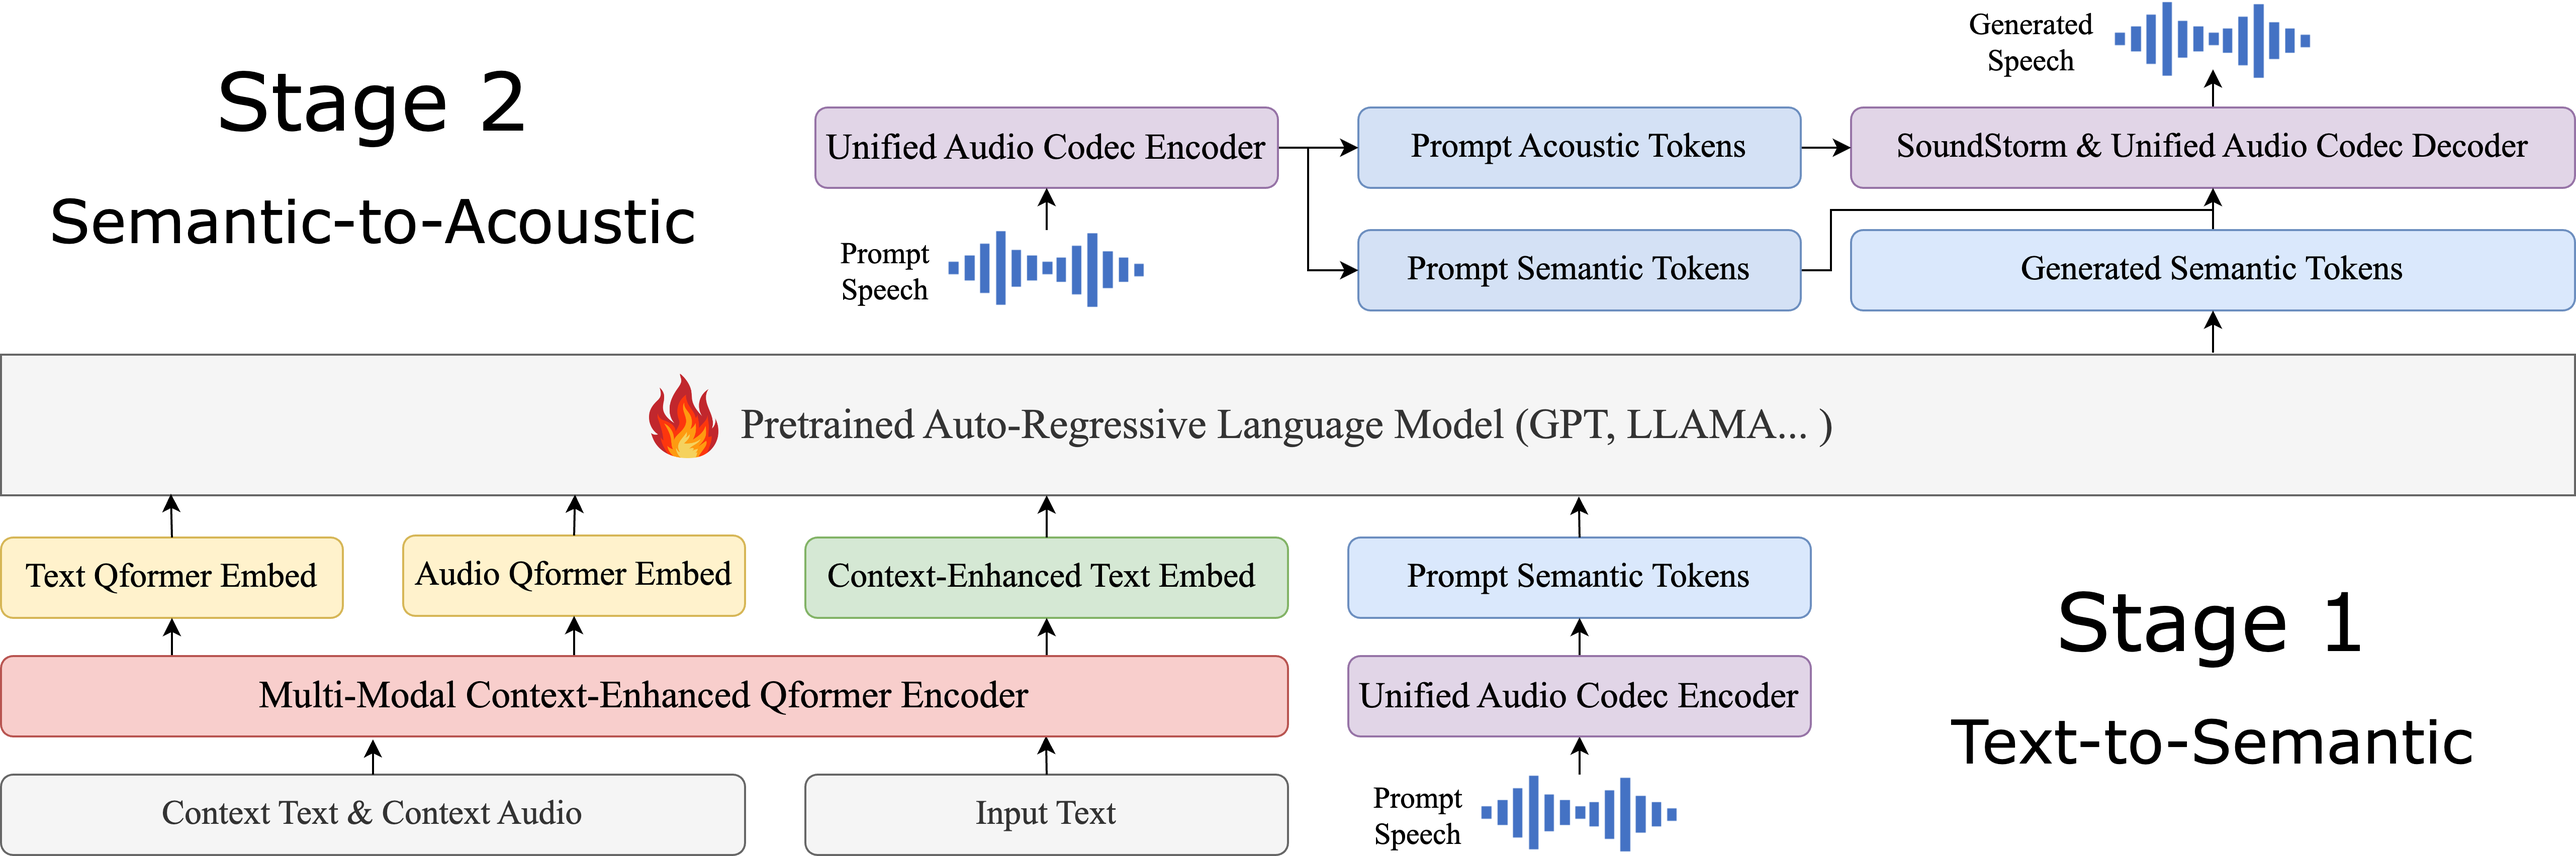
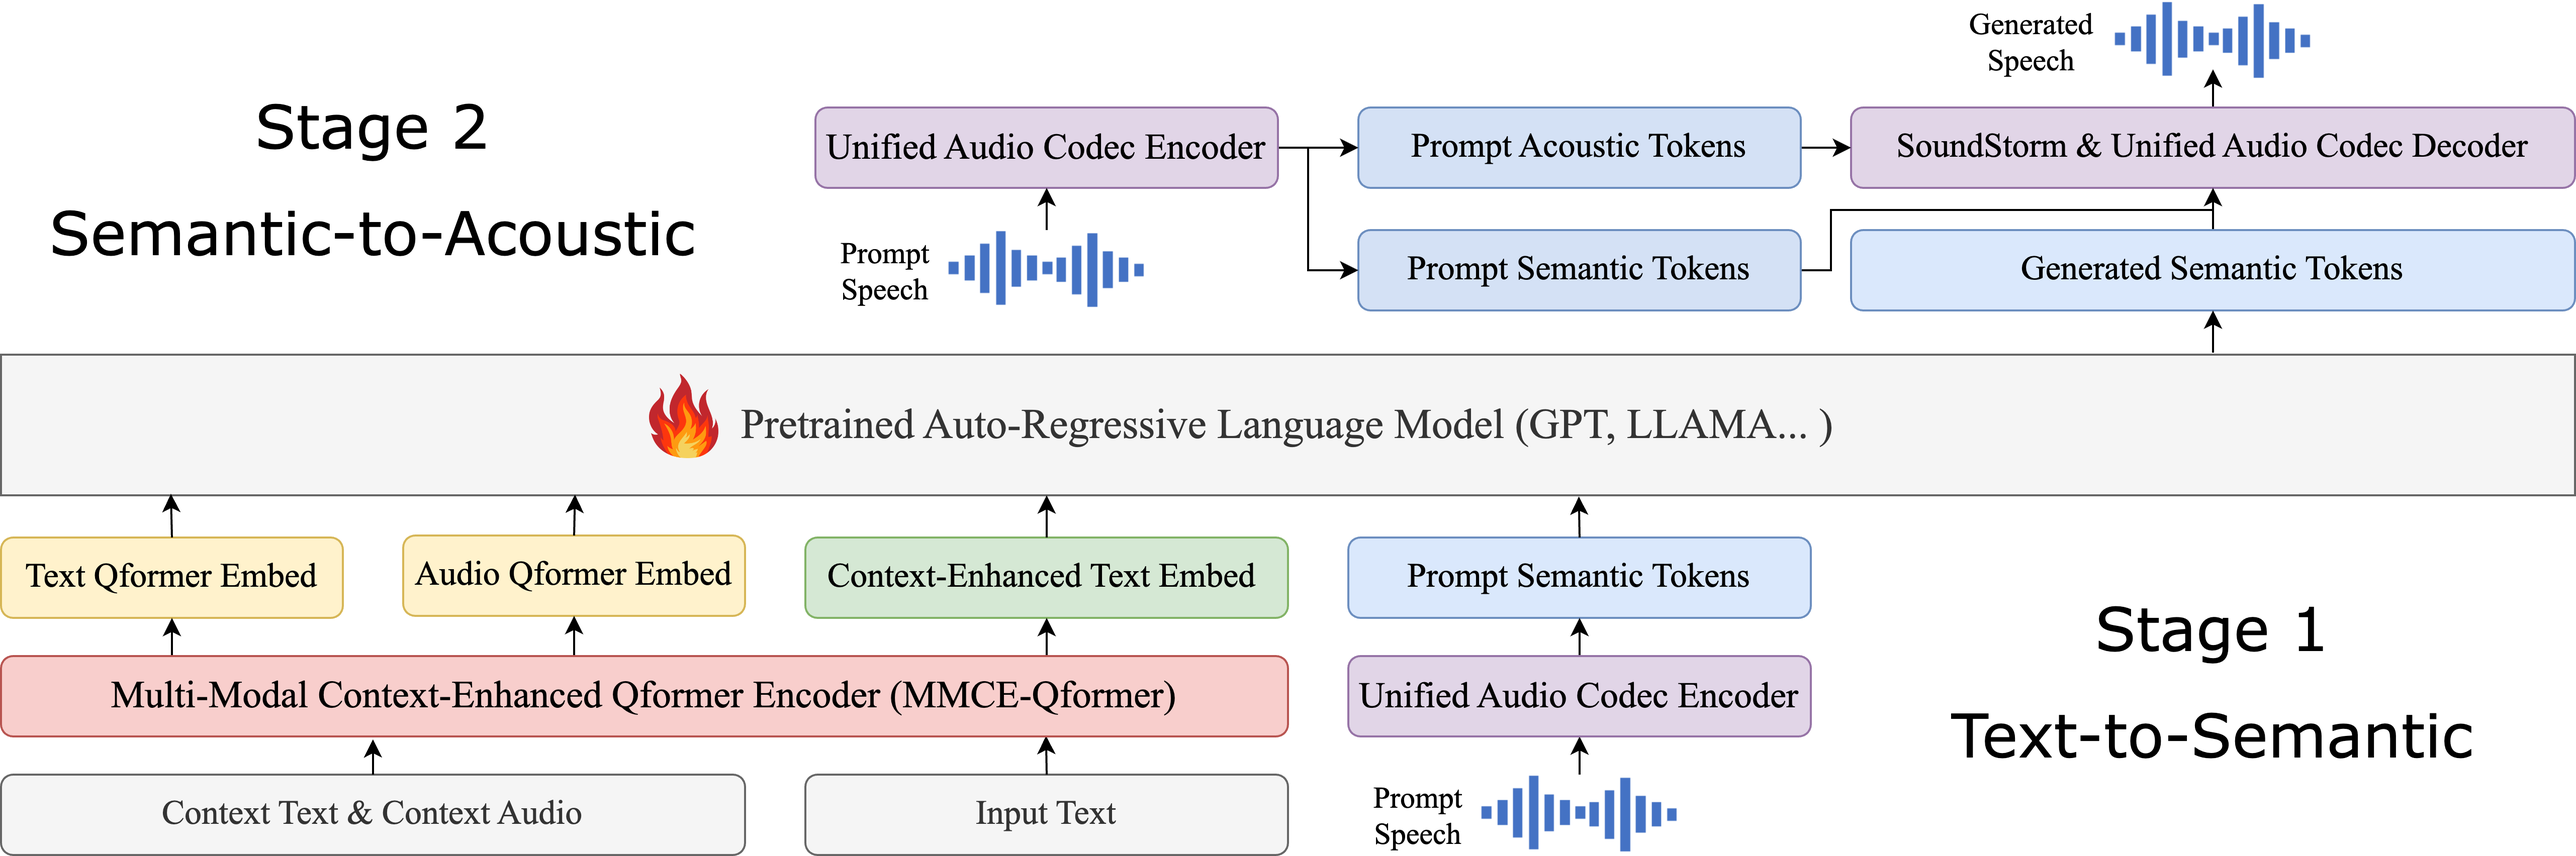
first commit

diff --git a/index.html b/index.html
@@ -7,7 +7,6 @@
 <meta name="generator" content="Jekyll v3.9.0">
 <meta property="og:title" content="Improving Audio Codec-based Zero-Shot Text-to-Speech Synthesis with Multi-Modal Context and Large Language Model">
 <meta property="og:locale" content="en_US">
-<link rel="canonical" href="https://happylittlecat2333.github.io/interspeech2024-MMCE-Qformer/">
 <meta name="twitter:card" content="summary">
 <!-- End Jekyll SEO tag -->
     <meta name="viewport" content="width=device-width, initial-scale=1">
@@ -33,9 +32,7 @@
 
 
 <h2 id="abstract">Abstract</h2>
-<p>Recent advance in large language models (LLMs) and development of audio codecs greatly propel the modern zero-shot TTS models. They can synthesize personalized speech with only a 3-second speech of an unseen speaker as an acoustic prompt. However, they only support short speech prompts and cannot leverage longer context information, as required in audiobook and conversational TTS scenarios. In
-this paper, we introduce a novel audio codec-based TTS model to adapt contextual features with multiple enhancements. Inspired by the success of Qformer, we propose a multi-modal context-enhanced Qformer (MMCE-Qformer) to fully utilize additional multi-modal context information. Besides, we employ a pretrained LLM to leverage its inherit strong in-context learning ability to predict semantic
-tokens, and use a non-autoregressive confidence-based model SoundStorm to generate acoustic tokens thereby enhancing audio quality and speaker similarity. Our comprehensive experiments show that our proposed method outperform baselines across various context TTS scenarios in terms of both subjective and objective evaluation.</p>
+<p>Recent advances in large language models (LLMs) and development of audio codecs greatly propel the zero-shot TTS. They can synthesize personalized speech with only a 3-second speech of an unseen speaker as an acoustic prompt. However, they only support short speech prompts and cannot leverage longer context information, as required in audiobook and conversational TTS scenarios. In this paper, we introduce a novel audio codec-based TTS model to adapt context features with multiple enhancements. Inspired by the success of Qformer, we propose a multi-modal context-enhanced Qformer (MMCE-Qformer) to utilize additional multi-modal context information. Besides, we adapt a pretrained LLM to leverage its understanding ability to predict semantic tokens, and use a SoundStorm to generate acoustic tokens thereby enhancing audio quality and speaker similarity. The extensive objective and subjective evaluations show that our proposed method outperforms baselines across various context TTS scenarios.</p>
 
 <h2><p class="toc_title">Contents</p></h2>
 <div id="toc_container">
